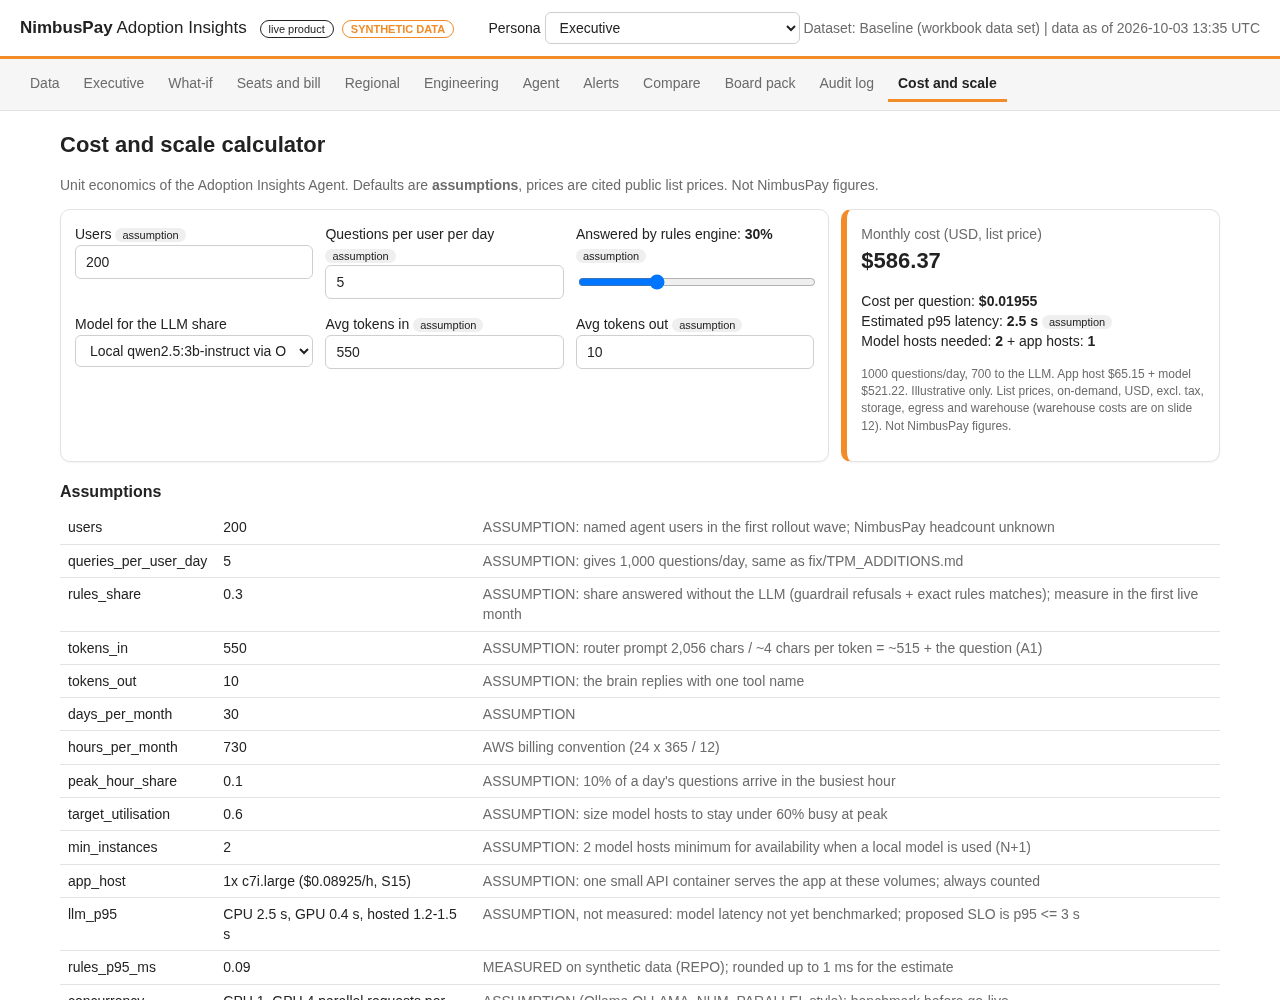
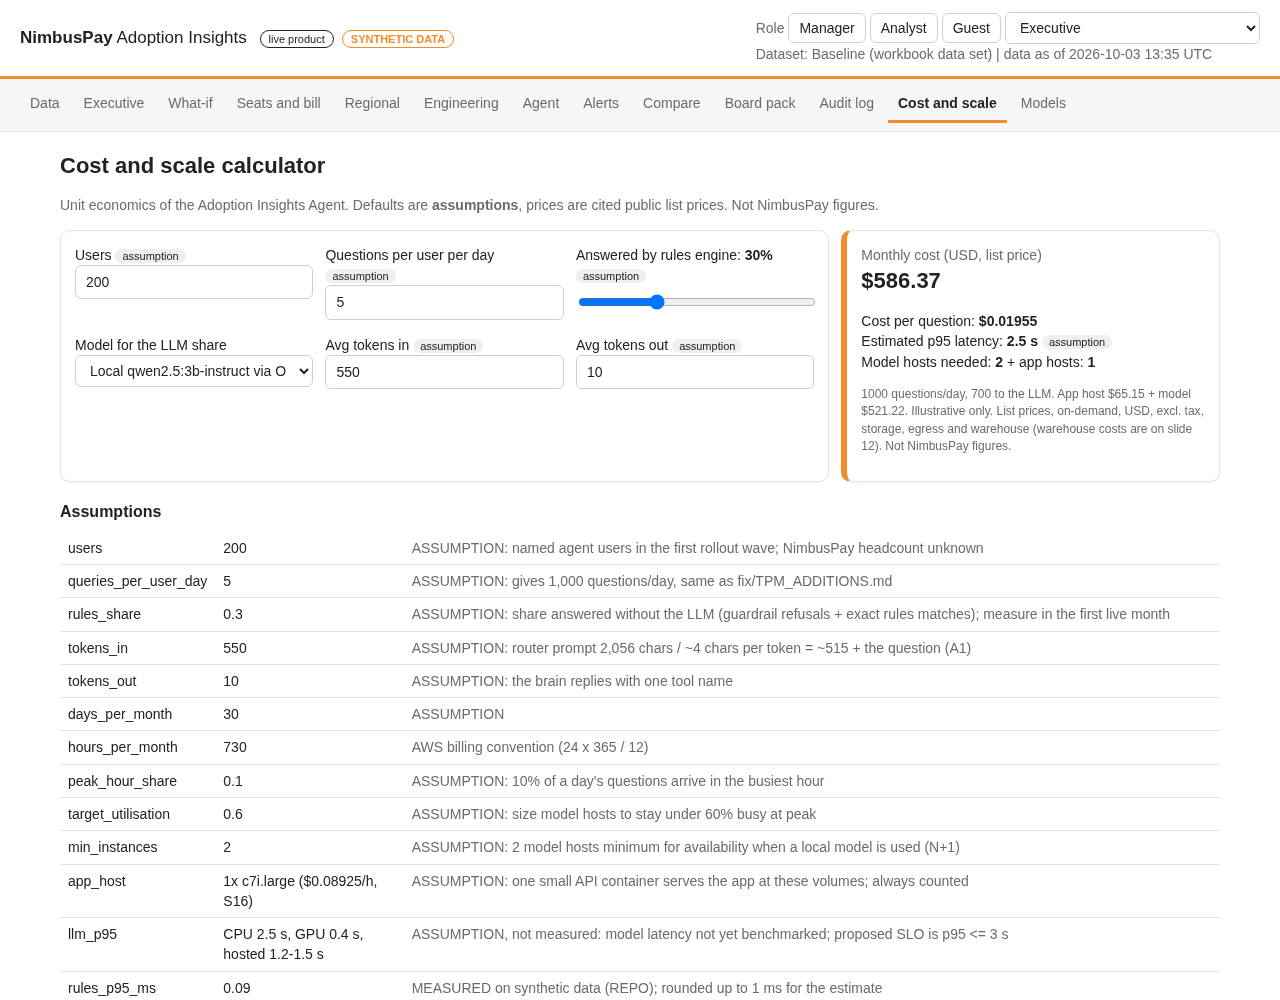
Docs: test count 262 in CI plus 2 browser walkthroughs (measured), 9 guards + claim check in README, refreshed Cost and scale screenshot with the new header

diff --git a/README.md b/README.md
@@ -29,7 +29,7 @@ Run these on the laptop you will present from, the night before. The full list i
    ```
    It finds the pack folder (the one with `deck/` and `extras/`; pass `--pack PATH` if it can't), makes `extras/qr_final.png` and `.svg` (plus `qr_repo_final.*` with `--repo`), and writes new files ending in `_final`: the TPM deck with slide 10's QR, label and links filled in (`deck/..._final.pptx`, plus a PDF if LibreOffice is installed), `extras/LEAVE_BEHIND_TPM_final.pdf` and `extras/CHEAT_SHEET_TPM_final.pdf` (needs Chrome, Edge or Chromium; otherwise it leaves an `_final.html` to print). Originals are never touched. It refuses placeholder links. Scan the new QR with your phone before you print. For the repo's own `assets/qr.png`, use `python tools/make_qr.py URL --out assets`.
 2. **Test the small open model:** `ollama pull qwen2.5:3b-instruct`, then `python tools/eval_agent.py --brain ollama`. If it scores below the rules brain, present with `NP_BRAIN=rules python -m app` (the rules fallback, same numbers).
-3. **Run the tests:** `make test` (232 tests in CI plus 2 browser walkthroughs via `make test-ui`, then the agent test gate).
+3. **Run the tests:** `make test` (262 tests in CI plus 2 browser walkthroughs via `make test-ui`, then the agent test gate).
 4. **Rehearse the demo:** `docs/DEMO_SCRIPT.md` (TPM-led, 4 minutes); backup video `docs/demo.mp4`.
 
 ## Live product (`app/`): a real, runnable Adoption Insights product
@@ -120,7 +120,7 @@ On the workbook's extended synthetic set it reproduces **all 35 Expected_Results
 The UI follows the deck's brand: white background, charcoal `#222222`, orange `#F28C28` as the accent, teal `#0F5E63` only for verified items, and Arial. Red is used only for critical risk.
 
 ### The agent and its "brain"
-- **Safety guards are always deterministic** and run first: individual surveillance, raw events or PII, small groups (< 5), out-of-scope regions (row-level security by persona), forecasts, causal claims, writes or actions, and ungoverned metrics are refused with a safe alternative. Anything it can't match is never guessed: it says so and offers the 3 closest governed questions it can answer.
+- **Safety guards are always deterministic** and run first. There are 9: prompt injection, individual surveillance, raw events or PII, small groups (< 5), out-of-scope regions (row-level security by persona), forecasts, causal claims, writes or actions, and ungoverned metrics are refused with a safe alternative. After the answer, a **claim check** means the agent never confirms a number the user typed unless its own SQL computed the same figure. Anything it can't match is never guessed: it says so and offers the 3 closest governed questions it can answer.
 - **Deny by default on role.** A missing or unrecognised persona resolves to the least-privileged `guest` role (no data scope; definitions only), in the API, the agent and the static prototype. It never falls back to Executive. In production the role is an SSO token claim, not a request field.
 - **Broad but governed coverage.** Beyond the 21 golden questions it answers panel-style paraphrases: a named agent's health or time saved (M17 study status plus its governed usage), reliability by agent, which agents are used most, engineer-built vs drag-and-drop, team usage (teams under 5 seats suppressed), region comparison, weekly trend inside the closed period, data freshness, alerts, seat reclaim, and outcome metrics that need study data (M06 to M09, refused with the reason).
 - **The brain only routes.** It picks one governed tool (for example `m01`, `m19`, `renewal`). The tool then runs real SQL on the warehouse and returns the answer with metric ID + version + data-as-of and the SQL. The model never states a number.
@@ -170,7 +170,7 @@ Upload your own `events.csv`, `seats.csv` and `registry.csv` on the **Data** tab
 ### Tests
 ```bash
 pip install -r requirements-dev.txt
-python -m pytest -q                      # 232 tests in CI plus 2 browser walkthroughs (Playwright), then the agent test gate: tools/eval_agent.py
+python -m pytest -q                      # 262 tests in CI plus 2 browser walkthroughs (Playwright), then the agent test gate: tools/eval_agent.py
 ```
 `tests/test_improvements.py` (29 tests) covers follow-ups, streaming, the Models screen, confidence and clarifying questions, the why-panel fields, feedback and its review export, and the role switch. `tests/test_ui_features_playwright.py` walks those features in a browser and saves `docs/screenshots/app-14..20`. The UI tests need a Chrome/Chromium (set `CHROME_PATH` if it isn't at `/usr/bin/google-chrome`) and write `docs/screenshots/app-*.png`; they skip if Playwright is missing.
 

diff --git a/docs/DEMO_SCRIPT.md b/docs/DEMO_SCRIPT.md
@@ -22,11 +22,9 @@ The agent's brain is whatever is running: with Ollama and `qwen2.5:3b-instruct` 
 | 3:00 | Set **Users** to 2000 | "Ten times the users: about $78 a month hosted. Cost scales with tokens, not servers. Speed figures are assumptions until benchmarked; the proposed target is p95 under 3 seconds." |
 | 3:15 | **Data**: Load *Critical-risk breach*, then **Executive** | "A privacy incident turns the score red and forces remediation, however good usage looks." |
 | 3:30 | **Audit log** | "Every question I just asked is logged with persona, result, metrics cited and the mode: rules or model. That's the observability you need on day one." |
-| 3:45 | Stop | "How it ships: 164 tests in CI plus a browser walkthrough, then the agent test gate before every release, DEV to staging to production. Measure the work, not the clicks." |
+| 3:45 | Stop | "How it ships: 262 tests in CI plus two browser walkthroughs, then the agent test gate before every release, DEV to staging to production. Measure the work, not the clicks." |
 
-Say the test line exactly as written: "164 tests in CI plus a browser walkthrough, then the agent test gate". Don't round it to "165 in CI".
-
-Test count: the repo now has 232 tests in CI plus 2 browser walkthroughs (the new agent features added 29 API tests and a second walkthrough; the try-to-break-it set and Space tests added the rest). The slide and this line still say 164; either keep it (it is an understatement, not a false claim) or update the slide and say "232 tests in CI plus two browser walkthroughs, then the agent test gate".
+Say the test line exactly as written: "262 tests in CI plus two browser walkthroughs, then the agent test gate". Don't add the two walkthroughs into the CI number ("264 in CI" is wrong).
 
 ## New agent beats (about 75 s; use after 1:55, or as extras if the panel asks)
 | Do | Say |

diff --git a/docs/RUNBOOK.md b/docs/RUNBOOK.md
@@ -78,7 +78,7 @@ All thresholds above are assumptions to tune after the first live month.
 5. Verify: `/api/health`, eval gate green, `data_as_of` correct, then close the incident.
 
 ## 7. Release flow: DEV -> staging -> prod
-1. **DEV:** feature branch; `make test` locally: 232 tests in CI plus 2 browser walkthroughs (`make test-ui`), then the agent test gate (`eval_agent.py --brain rules`).
+1. **DEV:** feature branch; `make test` locally: 262 tests in CI plus 2 browser walkthroughs (`make test-ui`), then the agent test gate (`eval_agent.py --brain rules`).
 2. **CI (GitHub Actions `tests.yml`):** unit, API, cost, probe tests + eval gate; merge blocked unless all pass.
 3. **Staging:** same image on masked data; `eval_agent.py --brain ollama` against the production model; latency check vs SLO; red-team probes.
 4. **Prod:** manual approval; canary to one role group; watch dashboards 1 and 2 for 24 h; widen.
